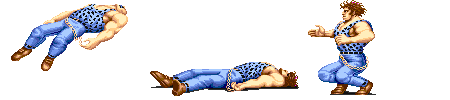
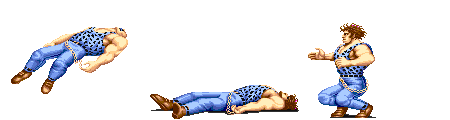
added andore falling spritesheets

Changed region(s): [[0.3111, 0.0, 0.84, 1.0], [0.0, 0.03, 0.3111, 0.81]]

diff --git a/BeatEmUp/BeatEmUp/source/Enemy.cpp b/BeatEmUp/BeatEmUp/source/Enemy.cpp
@@ -115,7 +115,7 @@ const Uint8 KnockDownHitCount = 1;
 
 void Enemy::OnPlayerAttack()
 {
-	if(state != ES_Attacking)
+	if(state != ES_Attacking && state != ES_KnockedDown)
 	{
 		Stop();
 		current = GetDirection() == Left? hitLeft: hitRight;
@@ -128,10 +128,11 @@ void Enemy::OnPlayerAttack()
 		}
 		else
 		{
+			hitCount = 0;
 			current = GetDirection() == Left? fallLeft: fallRight;
 			current->PlayFrames(0, 2, false);
 			state = ES_KnockedDown;
-			recoveryTimer = SDL_GetTicks() + 1500;
+			recoveryTimer = SDL_GetTicks() + 1500/*10000*/;
 		}
 	}
 }
@@ -142,22 +143,53 @@ const float MaxDistY = 0.0f;
 
 void Enemy::Update()
 {
-
-	//Dead... play death soundeffect and mark for GC
-	if(IsDead())
-	{
-		MIXER.Play(Mixer::SE_DragonRoar); //death
-		MarkForGC();
-		return;
-	}
-
 	//Recovery (when hit)
-	if((state == ES_Hit || state == ES_KnockedDown) && SDL_GetTicks() > recoveryTimer)
+	if(state == ES_Hit && SDL_GetTicks() > recoveryTimer)
 	{
 		Stop();
 		state = ES_Idle;
 		recoveryTimer = 0;
 		hitCount = 0;
+	}
+
+	//Knocked down.. get up or die...
+	if(state == ES_KnockedDown)
+	{
+		if(SDL_GetTicks() < recoveryTimer)
+		{
+			//Propagate to the underlying currently active sprite
+			if(current->GetCurrentFrame() == 0)
+			{
+				yVel = 0.3f;
+				xVel = 10.0f;
+			}
+			else
+			{
+				xVel = 0.0f, yVel=0.0f;
+			}
+			Translate();
+			current->Position().x = position.x;
+			current->Position().y = position.y;
+			current->Update();
+			return;
+		}
+		else
+		{
+			//Dead... play death soundeffect and mark for GC
+			if(IsDead())
+			{
+				MIXER.Play(Mixer::SE_DragonRoar); //death
+				MarkForGC();
+				return;
+			}
+			else
+			{
+				Stop();
+				state = ES_Idle;
+				recoveryTimer = 0;
+				hitCount = 0;
+			}
+		}
 	}
 
 	//Chase player
@@ -279,14 +311,20 @@ void Enemy::Stop()
 }
 
 
-void Enemy::Translate(bool anim)
+void Enemy::Translate()
 {
-	current->SetAnimation(anim);
 	position.x += xVel;
 	position.y += yVel;
 	position.y = position.y < GAME.MoveBounds.top()? GAME.MoveBounds.top(): position.y;
 	//logPrintf("Enemy Translate: Pos {%d, %d}", (int)position.x, (int)position.y);
 	AdjustZToGameDepth();
+}
+
+
+void Enemy::Translate(bool anim)
+{
+	current->SetAnimation(anim);
+	Translate();
 }
 
 

diff --git a/BeatEmUp/BeatEmUp/source/Game.cpp b/BeatEmUp/BeatEmUp/source/Game.cpp
@@ -55,8 +55,8 @@ bool Game::Init()
 		Sprite::FromFile("resources/andore_punchright.png", renderer_, 115, 112, 10, 1), 
 		Sprite::FromFile("resources/andore_hitleft.png", renderer_, 70, 124, 5, 0), 
 		Sprite::FromFile("resources/andore_hitright.png", renderer_, 70, 124, 5, 0), 
-		Sprite::FromFile("resources/andore_fallleft.png", renderer_, 150, 100, 30, 0), 
-		Sprite::FromFile("resources/andore_fallright.png", renderer_, 150, 100, 30, 0), 
+		Sprite::FromFile("resources/andore_fallleft.png", renderer_, 150, 120, 1, 0), 
+		Sprite::FromFile("resources/andore_fallright.png", renderer_, 150, 120, 1, 0), 
 		/*2400*/300, 450);
 	//andore2 = new Enemy(renderer_, 
 	//	Sprite::FromFile("resources/andore_walkleft.png", renderer_, 84, 124, 10, 5),

diff --git a/BeatEmUp/BeatEmUp/source/Player.cpp b/BeatEmUp/BeatEmUp/source/Player.cpp
@@ -215,7 +215,7 @@ void Player::GoUp()
 	else 
 		yVel = 0;
 	
-	Translate();
+	Translate(true);
 	pState = PS_Walking;
 }
 
@@ -231,7 +231,7 @@ void Player::GoDown()
 	else 
 		yVel = 0;
 	
-	Translate();        
+	Translate(true);        
 	pState = PS_Walking;
 }
 
@@ -248,7 +248,7 @@ void Player::GoRight()
 		xVel = 0;
 
 	SetDirection(Right);
-	Translate();
+	Translate(true);
 	pState = PS_Walking;
 }
 
@@ -265,7 +265,7 @@ void Player::GoLeft()
 		xVel = 0;
 
 	SetDirection(Left);
-	Translate();
+	Translate(true);
 	pState = PS_Walking;
 }
 

diff --git a/BeatEmUp/BeatEmUp/include/Enemy.h b/BeatEmUp/BeatEmUp/include/Enemy.h
@@ -54,7 +54,8 @@ public:
 	};
 
 private:
-	void Translate(bool anim = true);
+	void Translate(bool anim);
+	void Translate();
 
 
 private:

diff --git a/BeatEmUp/BeatEmUp/include/Player.h b/BeatEmUp/BeatEmUp/include/Player.h
@@ -44,7 +44,7 @@ public:
 	
 
 private:
-	void Translate(bool anim = true);
+	void Translate(bool anim);
 
 
 private:
